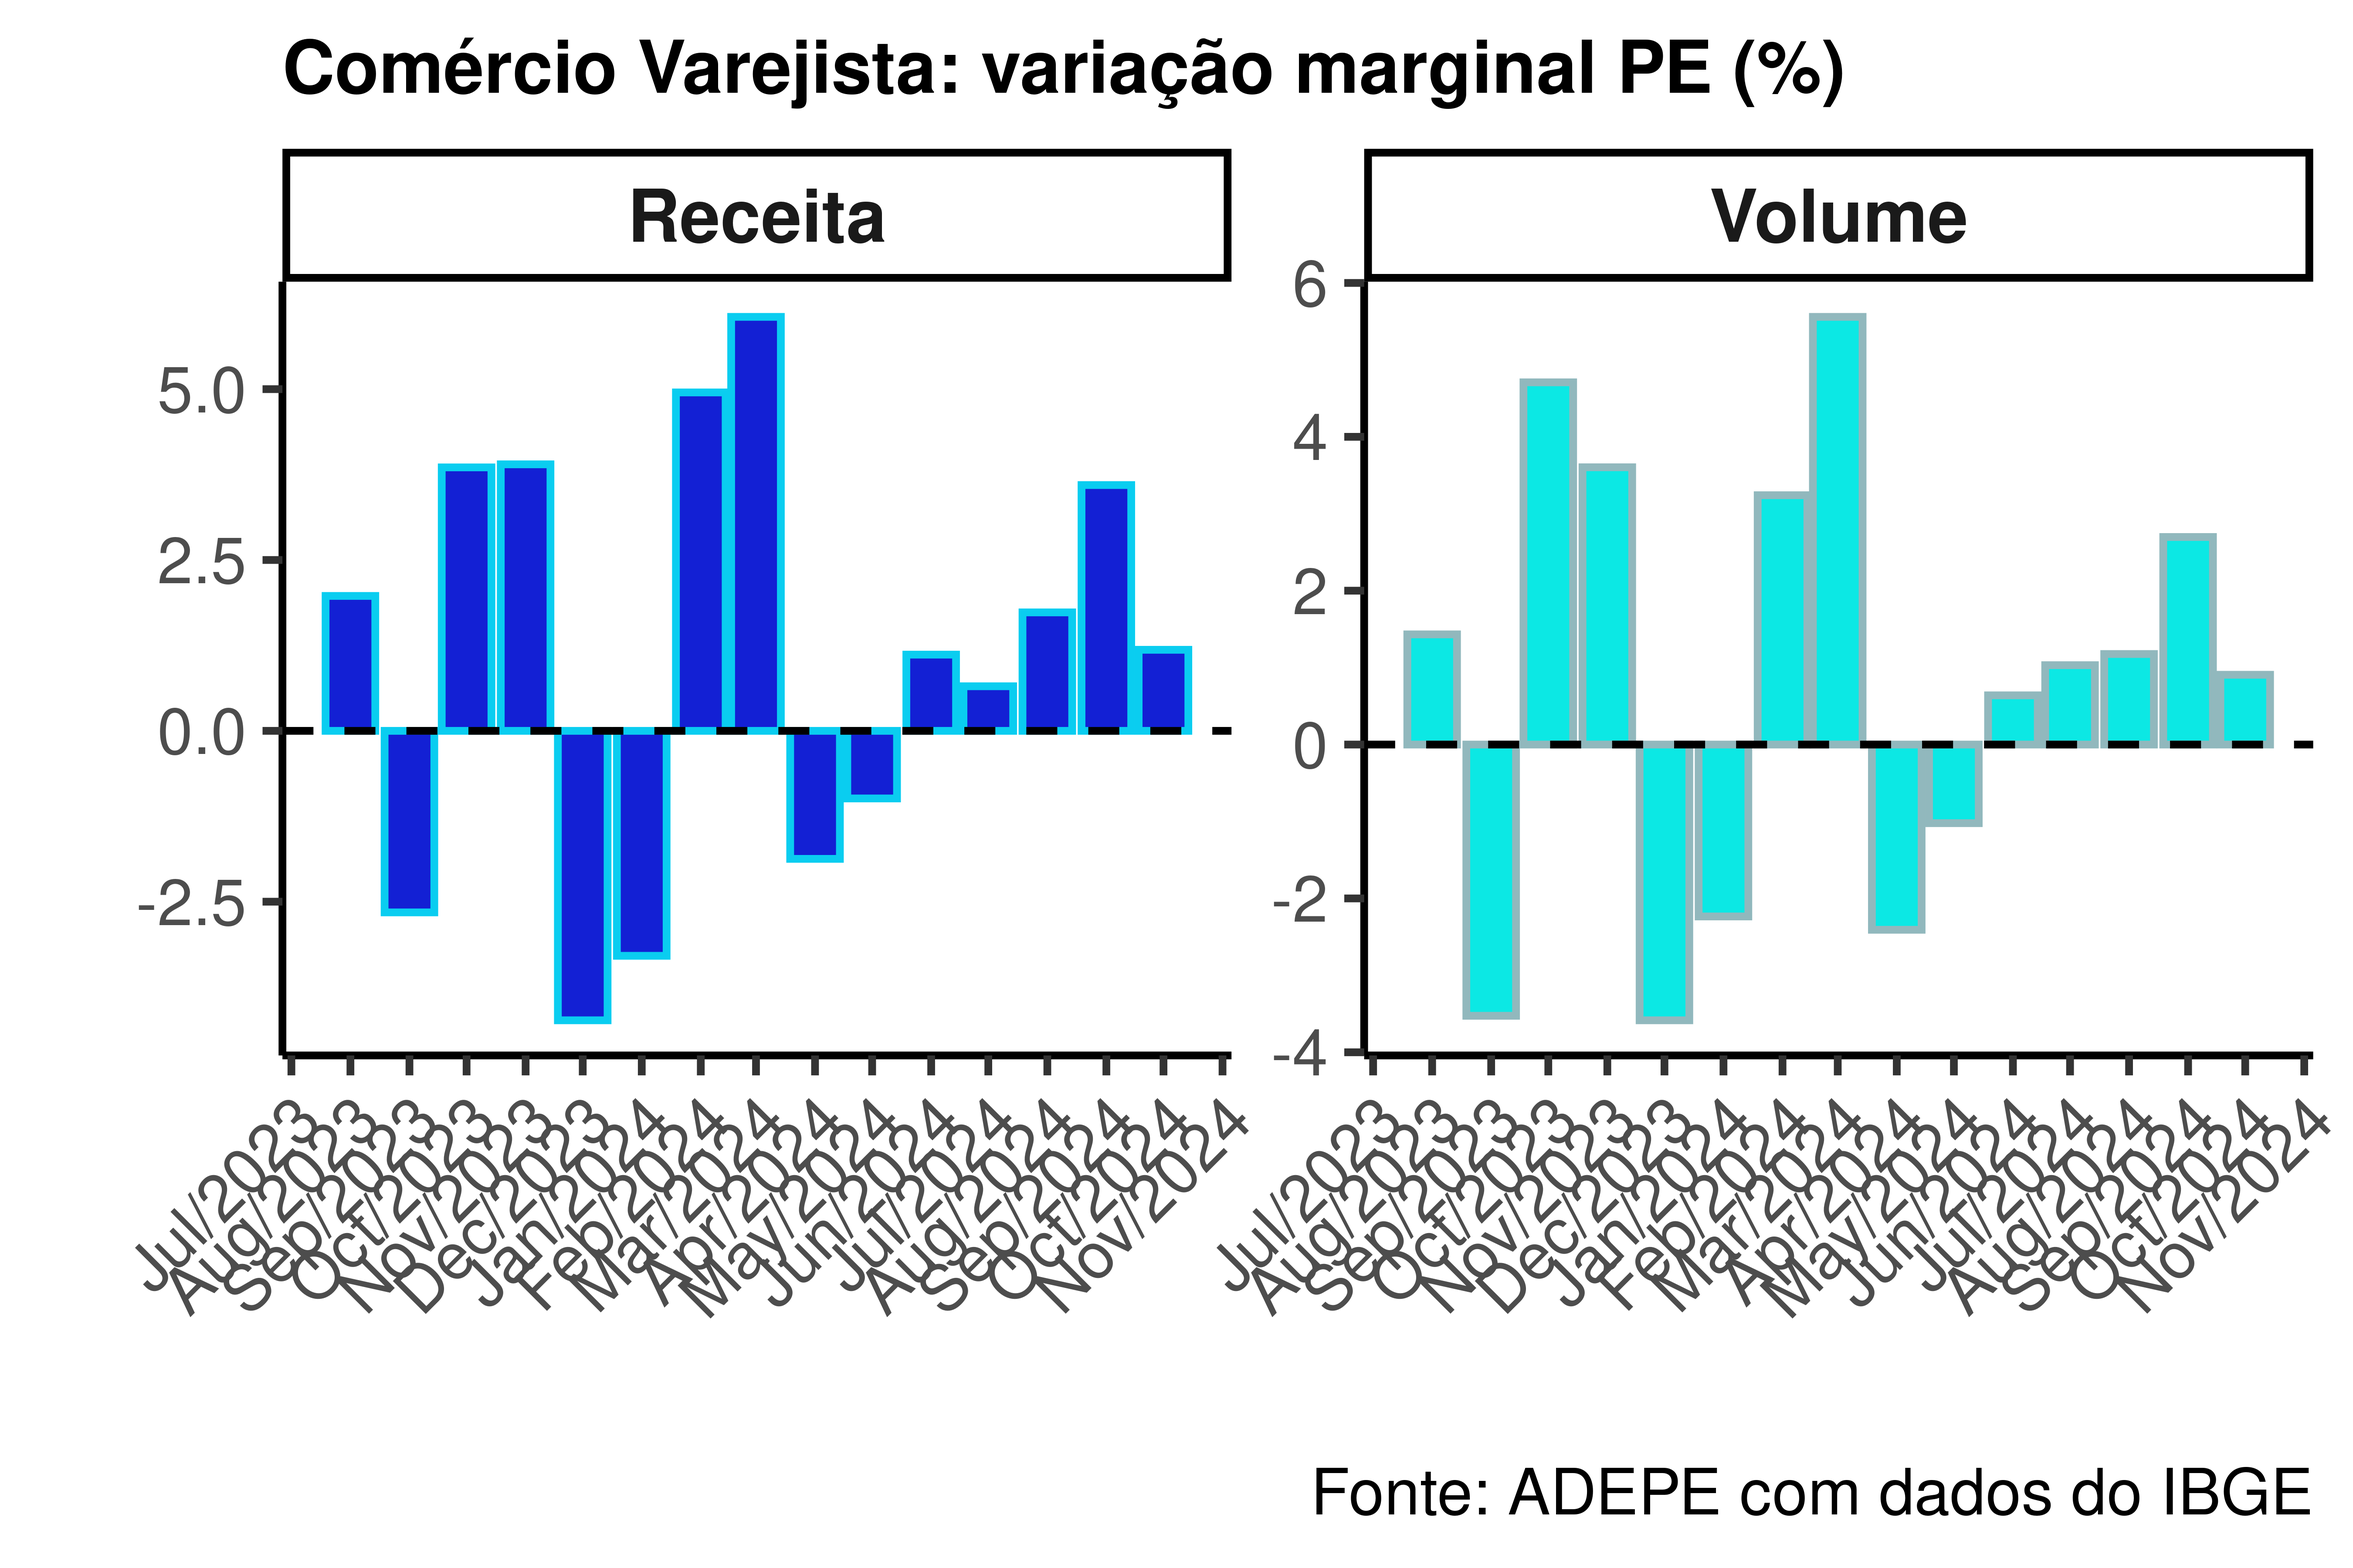
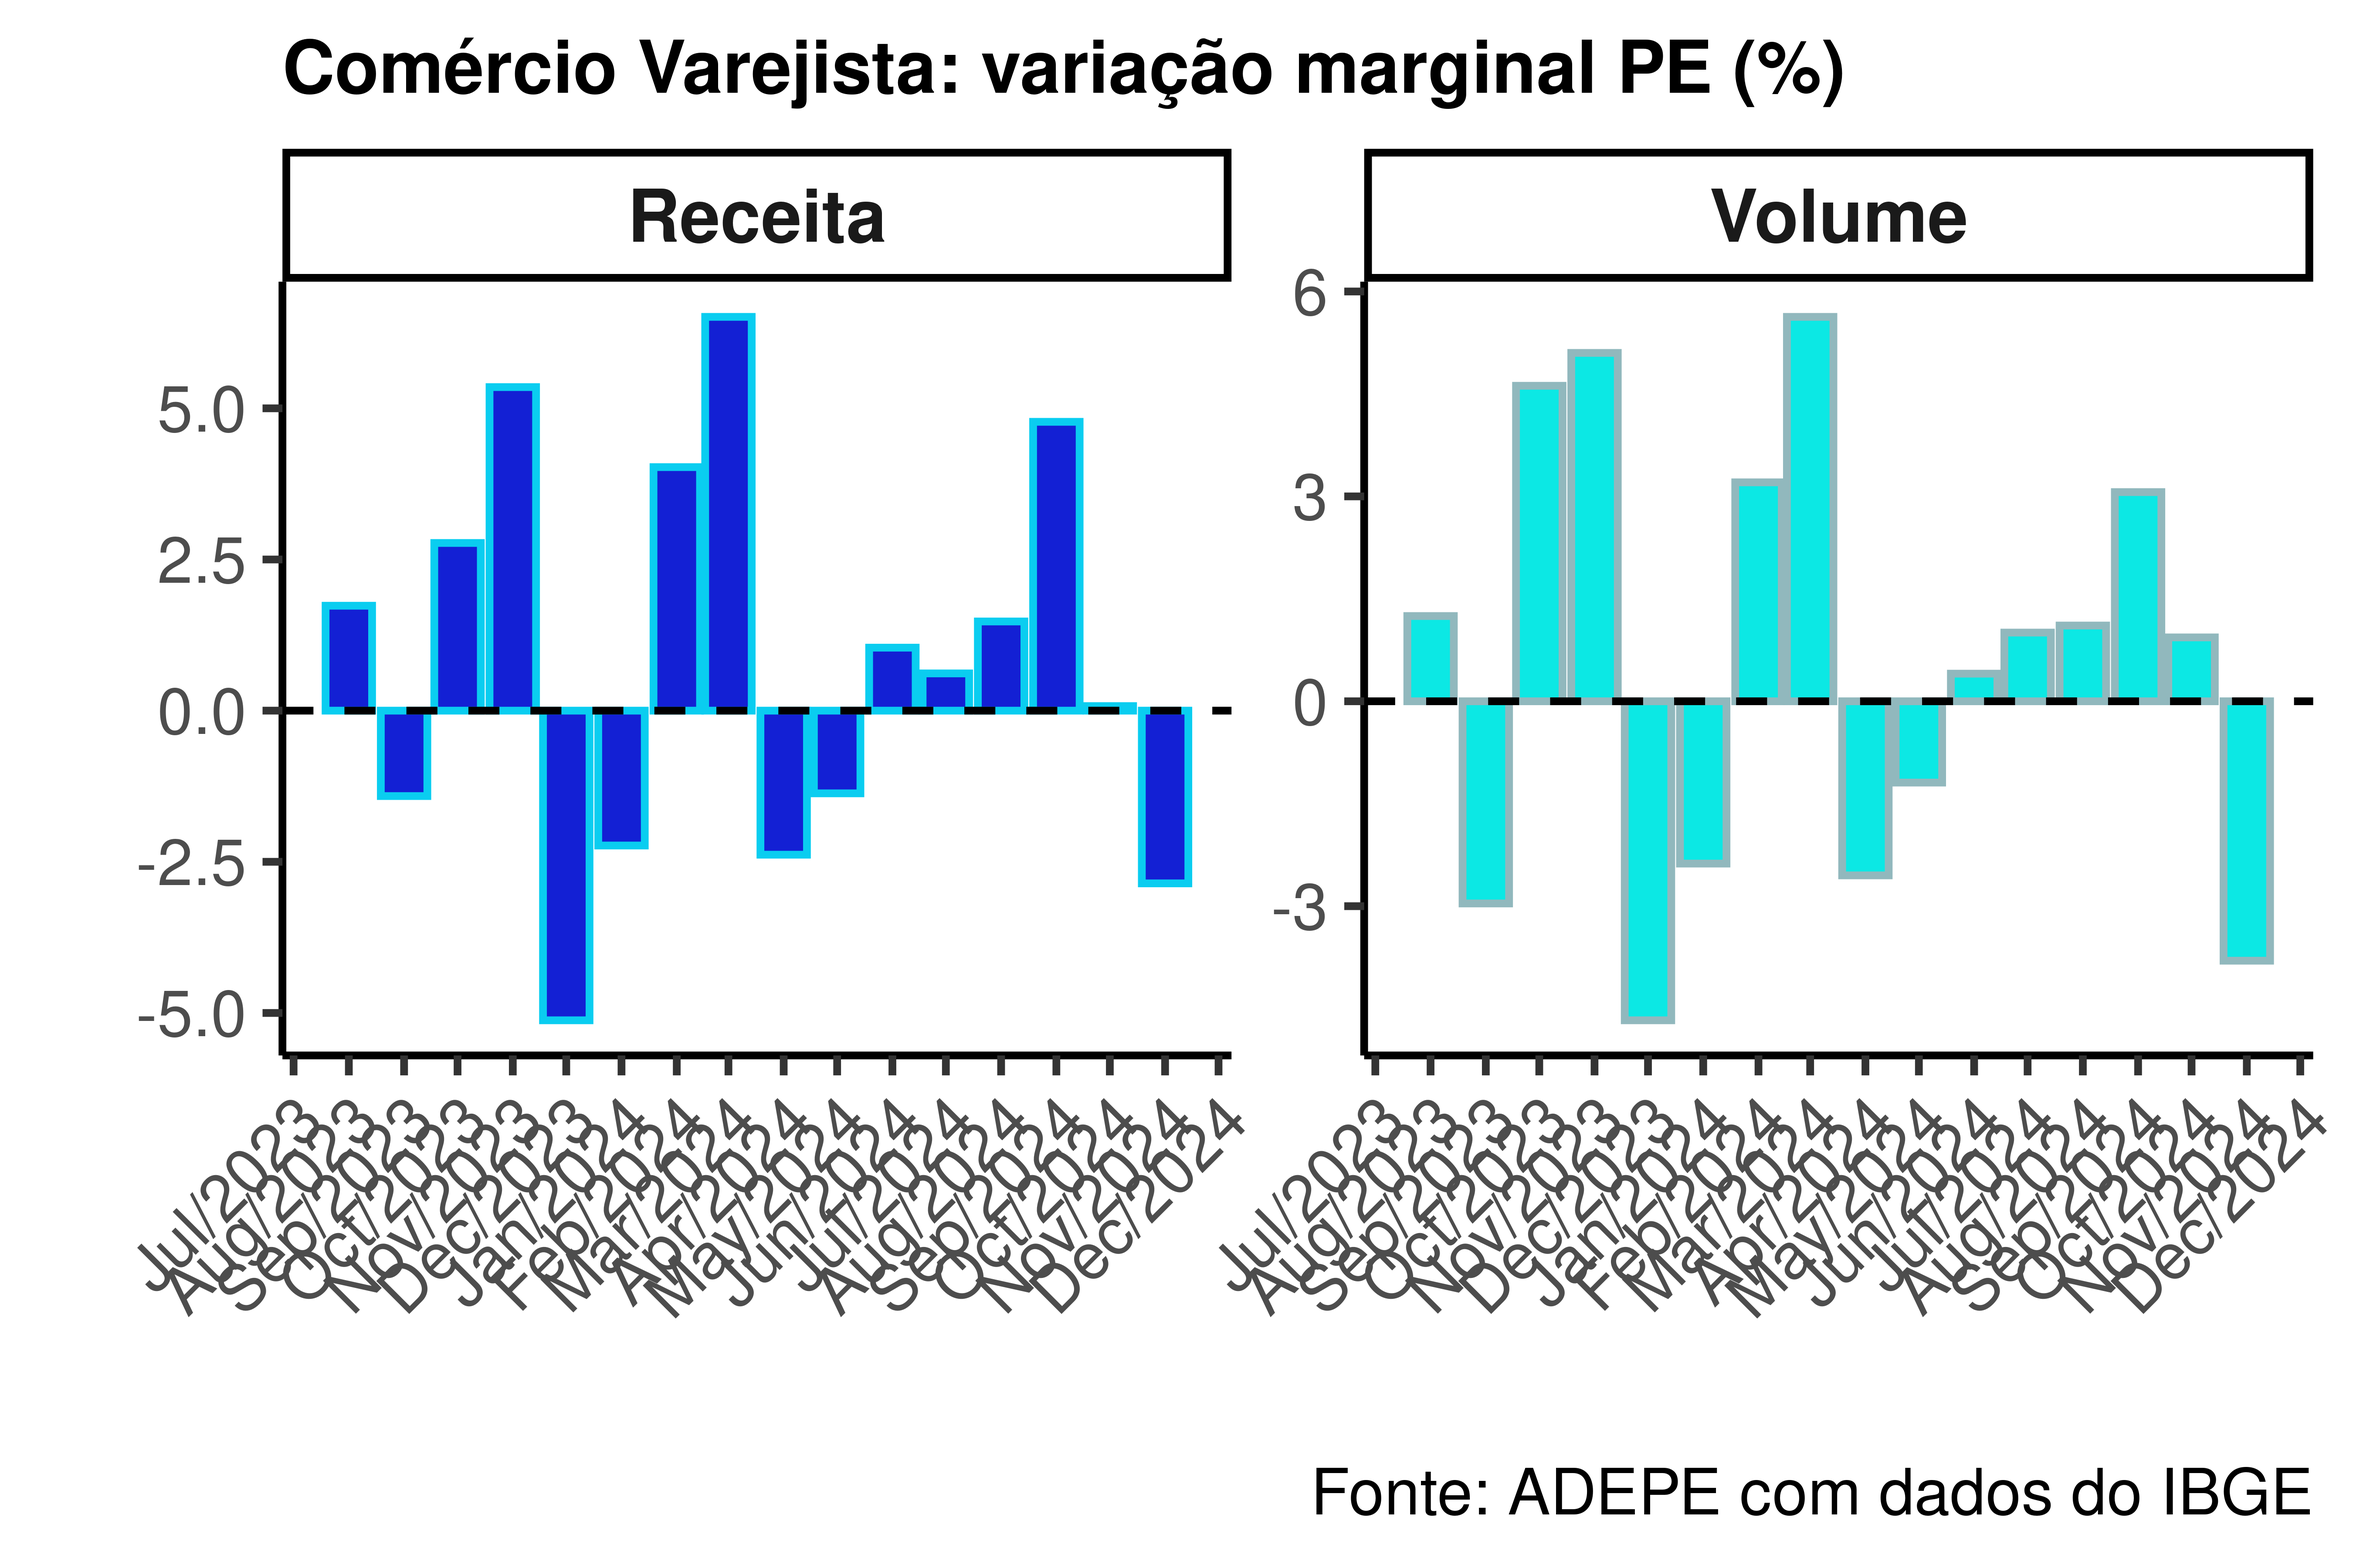
Atualização de relatório automatizada

diff --git a/relatório_nivel_atividade/pesquisas.html b/relatório_nivel_atividade/pesquisas.html
@@ -418,34 +418,34 @@ Nota
 </thead>
 <tbody>
 <tr class="odd">
-<td style="text-align: center;">2024-05-01</td>
-<td style="text-align: center;">-0.99</td>
-<td style="text-align: center;">-1.02</td>
-</tr>
-<tr class="even">
 <td style="text-align: center;">2024-06-01</td>
-<td style="text-align: center;">1.12</td>
-<td style="text-align: center;">0.64</td>
+<td style="text-align: center;">1.04</td>
+<td style="text-align: center;">0.40</td>
 </tr>
-<tr class="odd">
+<tr class="even">
 <td style="text-align: center;">2024-07-01</td>
-<td style="text-align: center;">0.65</td>
-<td style="text-align: center;">1.03</td>
-</tr>
-<tr class="even">
-<td style="text-align: center;">2024-08-01</td>
-<td style="text-align: center;">1.73</td>
-<td style="text-align: center;">1.18</td>
+<td style="text-align: center;">0.62</td>
+<td style="text-align: center;">1.01</td>
 </tr>
 <tr class="odd">
-<td style="text-align: center;">2024-09-01</td>
-<td style="text-align: center;">3.60</td>
-<td style="text-align: center;">2.70</td>
+<td style="text-align: center;">2024-08-01</td>
+<td style="text-align: center;">1.47</td>
+<td style="text-align: center;">1.11</td>
 </tr>
 <tr class="even">
+<td style="text-align: center;">2024-09-01</td>
+<td style="text-align: center;">4.78</td>
+<td style="text-align: center;">3.06</td>
+</tr>
+<tr class="odd">
 <td style="text-align: center;">2024-10-01</td>
-<td style="text-align: center;">1.19</td>
-<td style="text-align: center;">0.91</td>
+<td style="text-align: center;">0.08</td>
+<td style="text-align: center;">0.94</td>
+</tr>
+<tr class="even">
+<td style="text-align: center;">2024-11-01</td>
+<td style="text-align: center;">-2.86</td>
+<td style="text-align: center;">-3.80</td>
 </tr>
 </tbody>
 </table>
@@ -466,34 +466,34 @@ Nota
 </thead>
 <tbody>
 <tr class="odd">
-<td style="text-align: center;">2024-05-01</td>
-<td style="text-align: center;">7.93</td>
-<td style="text-align: center;">5.39</td>
-</tr>
-<tr class="even">
 <td style="text-align: center;">2024-06-01</td>
 <td style="text-align: center;">7.34</td>
 <td style="text-align: center;">4.30</td>
 </tr>
-<tr class="odd">
+<tr class="even">
 <td style="text-align: center;">2024-07-01</td>
 <td style="text-align: center;">11.51</td>
 <td style="text-align: center;">9.41</td>
 </tr>
-<tr class="even">
+<tr class="odd">
 <td style="text-align: center;">2024-08-01</td>
 <td style="text-align: center;">9.32</td>
 <td style="text-align: center;">7.23</td>
 </tr>
-<tr class="odd">
+<tr class="even">
 <td style="text-align: center;">2024-09-01</td>
 <td style="text-align: center;">13.86</td>
 <td style="text-align: center;">11.80</td>
 </tr>
-<tr class="even">
+<tr class="odd">
 <td style="text-align: center;">2024-10-01</td>
-<td style="text-align: center;">14.74</td>
-<td style="text-align: center;">11.33</td>
+<td style="text-align: center;">14.77</td>
+<td style="text-align: center;">11.35</td>
+</tr>
+<tr class="even">
+<td style="text-align: center;">2024-11-01</td>
+<td style="text-align: center;">4.38</td>
+<td style="text-align: center;">0.72</td>
 </tr>
 </tbody>
 </table>
@@ -514,34 +514,34 @@ Nota
 </thead>
 <tbody>
 <tr class="odd">
-<td style="text-align: center;">2024-05-01</td>
-<td style="text-align: center;">7.34</td>
-<td style="text-align: center;">5.69</td>
-</tr>
-<tr class="even">
 <td style="text-align: center;">2024-06-01</td>
 <td style="text-align: center;">8.07</td>
 <td style="text-align: center;">6.10</td>
 </tr>
-<tr class="odd">
+<tr class="even">
 <td style="text-align: center;">2024-07-01</td>
 <td style="text-align: center;">8.83</td>
 <td style="text-align: center;">6.74</td>
 </tr>
-<tr class="even">
+<tr class="odd">
 <td style="text-align: center;">2024-08-01</td>
 <td style="text-align: center;">9.08</td>
 <td style="text-align: center;">6.99</td>
 </tr>
-<tr class="odd">
+<tr class="even">
 <td style="text-align: center;">2024-09-01</td>
 <td style="text-align: center;">9.85</td>
 <td style="text-align: center;">7.89</td>
 </tr>
-<tr class="even">
+<tr class="odd">
 <td style="text-align: center;">2024-10-01</td>
 <td style="text-align: center;">10.34</td>
-<td style="text-align: center;">8.29</td>
+<td style="text-align: center;">8.30</td>
+</tr>
+<tr class="even">
+<td style="text-align: center;">2024-11-01</td>
+<td style="text-align: center;">9.54</td>
+<td style="text-align: center;">7.37</td>
 </tr>
 </tbody>
 </table>
@@ -590,59 +590,59 @@ Nota
 <tbody>
 <tr class="odd">
 <td style="text-align: left;">Artigos farmacêuticos</td>
-<td style="text-align: center;">25.36</td>
+<td style="text-align: center;">10.55</td>
 </tr>
 <tr class="even">
 <td style="text-align: left;">Atacado especializado em produtos alimentícios, bebidas e fumo</td>
-<td style="text-align: center;">11.56</td>
+<td style="text-align: center;">-1.64</td>
 </tr>
 <tr class="odd">
 <td style="text-align: left;">Combustíveis e lubrificantes</td>
-<td style="text-align: center;">2.25</td>
+<td style="text-align: center;">3.62</td>
 </tr>
 <tr class="even">
 <td style="text-align: left;">Eletrodomésticos</td>
-<td style="text-align: center;">20.82</td>
+<td style="text-align: center;">11.03</td>
 </tr>
 <tr class="odd">
 <td style="text-align: left;">Materiais para escritório</td>
-<td style="text-align: center;">-4.98</td>
+<td style="text-align: center;">-4.71</td>
 </tr>
 <tr class="even">
 <td style="text-align: left;">Hipermercados e supermercados</td>
-<td style="text-align: center;">11.90</td>
+<td style="text-align: center;">16.68</td>
 </tr>
 <tr class="odd">
 <td style="text-align: left;">Hipermercados, supermercados e outros</td>
-<td style="text-align: center;">10.67</td>
+<td style="text-align: center;">14.95</td>
 </tr>
 <tr class="even">
 <td style="text-align: left;">Livros, jornais, revistas e papelaria</td>
-<td style="text-align: center;">7.25</td>
+<td style="text-align: center;">6.39</td>
 </tr>
 <tr class="odd">
 <td style="text-align: left;">Material de construção</td>
-<td style="text-align: center;">3.38</td>
+<td style="text-align: center;">2.90</td>
 </tr>
 <tr class="even">
 <td style="text-align: left;">Móveis</td>
-<td style="text-align: center;">20.25</td>
+<td style="text-align: center;">5.73</td>
 </tr>
 <tr class="odd">
 <td style="text-align: left;">Móveis e eletrodomésticos</td>
-<td style="text-align: center;">20.69</td>
+<td style="text-align: center;">9.79</td>
 </tr>
 <tr class="even">
 <td style="text-align: left;">Outros artigos de uso pessoal e doméstico</td>
-<td style="text-align: center;">4.30</td>
+<td style="text-align: center;">4.55</td>
 </tr>
 <tr class="odd">
 <td style="text-align: left;">Tecidos, vestuário e calçados</td>
-<td style="text-align: center;">-5.10</td>
+<td style="text-align: center;">-3.44</td>
 </tr>
 <tr class="even">
 <td style="text-align: left;">Veículos, motocicletas, partes e peças</td>
-<td style="text-align: center;">34.40</td>
+<td style="text-align: center;">-3.65</td>
 </tr>
 </tbody>
 </table>
